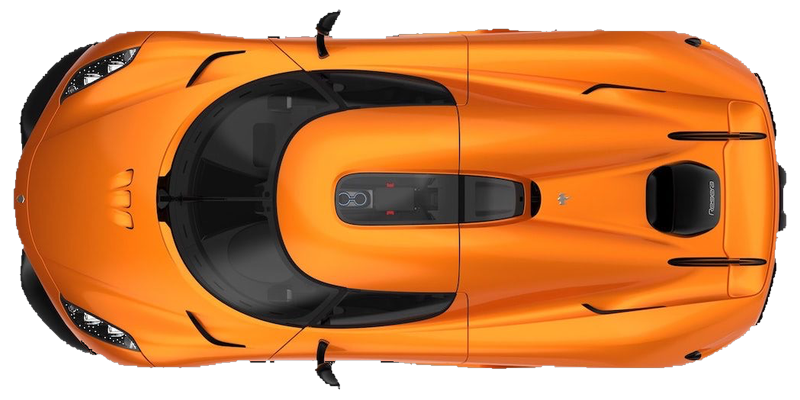
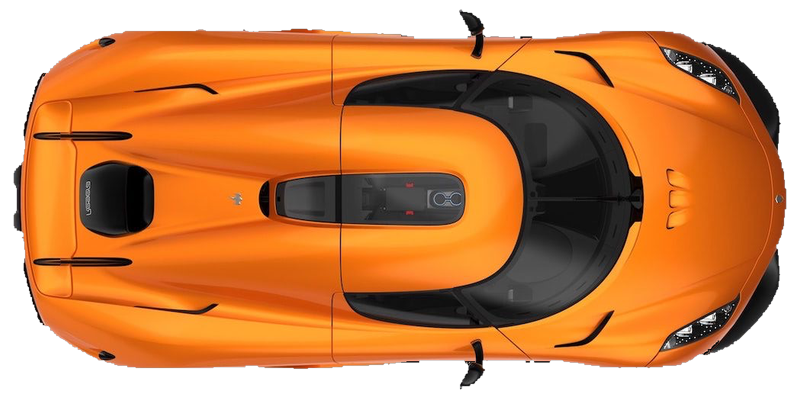
Fix job-car heroes driving backwards with no headlights
Two compounding bugs, both magnified by jobs now deciding the hero car
on every campaign level:

- traffic-sedan-6.png (the skin body every job car without bespoke art
  renders as) shipped mirrored — the only cutout violating the
  front-at-the-right normalization every other sedan follows. Invisible
  while it was 1 of 23 traffic cars; as the fallback hero it drove
  backwards out of the exit on every level. Flipped in place.

- The job-car pass withheld the headlight beam/glow overlay for
  fallback heroes on the theory the traffic photo didn't match
  classic.png's layout. The sedan pool follows the same front-right
  ~97%-length normalization, so the anchors fit fine — restored the
  overlay for every hero regardless of body art.

Claude-Session: https://claude.ai/code/session_01YEvtCcAdgY7dadycdUk8Rp

diff --git a/js/art.js b/js/art.js
@@ -52,6 +52,11 @@ const CLASSIC_CAR_IMG = 'assets/cars/classic.png';
    paint, which read as a lighting bug (green/purple taillights) rather than
    "recolored car". Real photos any time they exist beats simulating them. */
 const SEDAN_PHOTOS = [
+  // NOTE: sedan-6's cutout shipped mirrored (front at the LEFT — the only
+  // one violating the normalization described above) and was flipped in
+  // place in the July '26 job-car pass. Nobody noticed while it was 1 of 23
+  // traffic cars; as the skin body it became the hero on every campaign
+  // level, visibly driving backwards out of the exit.
   { img: 'assets/cars/traffic-sedan-6.png', hue: 29 },       // orange hypercar (skin body)
   { img: 'assets/cars/traffic-sedan-3.png', hue: 212 },      // navy classic GT
   { img: 'assets/cars/traffic-sedan-8.png', hue: 90 },       // lime GT3 RS
@@ -245,15 +250,16 @@ export function vehicleSVG(idx, len, dir, isHero, opts = {}){
      beam crosses the piece's own viewBox — plain opaque-fading-to-transparent
      reads bright enough against the dark board without that artifact.)
 
-     Only ever drawn over art that actually follows classic.png's layout
-     (front-right, headlights at this exact spot): the default red hero, or
-     a job car with its own bespoke `skin.photo` (see collection.js) built
-     to the same spec. A job car without art yet falls back to a recolored
-     traffic-sedan photo below, which was never shot to this layout — its
-     front end and lack of real headlights are why overlaying a beam here
-     used to look wrong for every skinned car, so it's withheld until that
-     car's own art lands. */
-  const photoHeroExtra = (isHero && (!skin || skin.photo)) ? `
+     Drawn for EVERY hero, whatever its body art: classic.png, a bespoke
+     `skin.photo` render, or the recolored SEDAN_PHOTOS[0] fallback — all
+     three follow the same normalization (front at the right end, ~97% of
+     the canvas length), so the beam anchors land close enough on each.
+     A job-car pass briefly withheld this for fallback heroes on the theory
+     that the traffic photo wasn't shot to classic.png's layout; that shipped
+     as "the hero has no headlights" on every campaign level, because with
+     jobs deciding the car, the fallback IS the common case until bespoke
+     art lands. The mark must always read as the car with its lights on. */
+  const photoHeroExtra = isHero ? `
     <path d="M ${L - 23} 14 L ${L + 185} -8 L ${L + 185} 46 L ${L - 11} 30 Z" fill="url(#${gid}beam2)" filter="url(#${gid}bblur)"/>
     <path d="M ${L - 23} 86 L ${L + 185} 108 L ${L + 185} 54 L ${L - 11} 70 Z" fill="url(#${gid}beam2)" filter="url(#${gid}bblur)"/>
     <ellipse cx="${L - 26}" cy="18" rx="15" ry="4.5" transform="rotate(24 ${L - 26} 18)" fill="#fff3c2" opacity=".55" filter="url(#${gid}bblur)"/>
@@ -278,16 +284,14 @@ export function vehicleSVG(idx, len, dir, isHero, opts = {}){
     // lines up the same way it does on the classic hero.
     body = `<image href="${skin.photo}" x="0" y="0" width="${L}" height="${H}" preserveAspectRatio="none"/>${photoHeroExtra}`;
   } else if(isHero){
-    // Job car with no bespoke render yet: same photo body as the classic
-    // hero, recolored to the skin's paint via hueRotate (both photos fill
-    // the cell edge-to-edge so the positions carry over). No beam/glow
-    // overlay here — this traffic-sedan photo was never shot to
-    // classic.png's front-right layout, so the beam would sit on the
-    // wrong edge of the car; photoHeroExtra already withholds it above.
+    // Job car with no bespoke render yet: SEDAN_PHOTOS[0] recolored to the
+    // skin's paint via hueRotate, plus the same beam/glow overlay as every
+    // other hero (the photo is normalized front-right like classic.png, so
+    // the anchors carry over — see photoHeroExtra above).
     // trimSVG's beltline stripe was tuned to the old procedural sedan's
     // silhouette (paint above/below a windshield greenhouse) — this car's
     // canopy runs nearly the full width, so the same stripe cuts across
-    // the glass instead of following a body line. Skipping trim here too;
+    // the glass instead of following a body line. Skipping trim here;
     // paint color alone still distinguishes every unlocked skin.
     body = `<image href="${sedanPhoto.img}" x="0" y="0" width="${L}" height="${H}" preserveAspectRatio="none"${hueAttr}/>${photoHeroExtra}`;
   } else if(len >= 3){